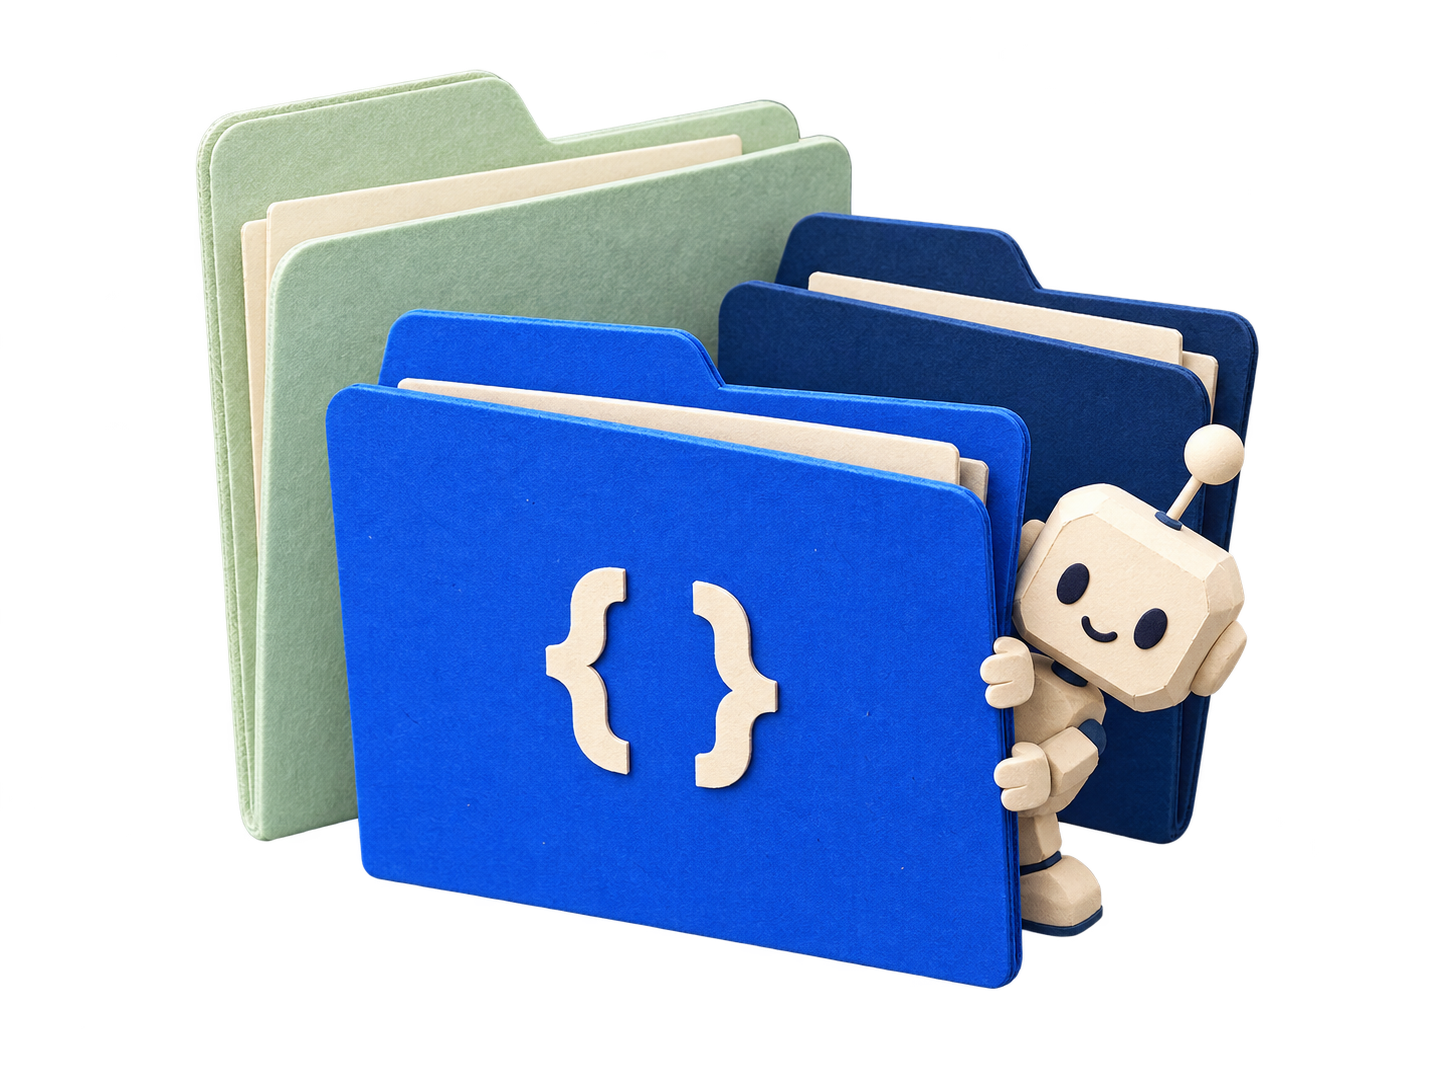
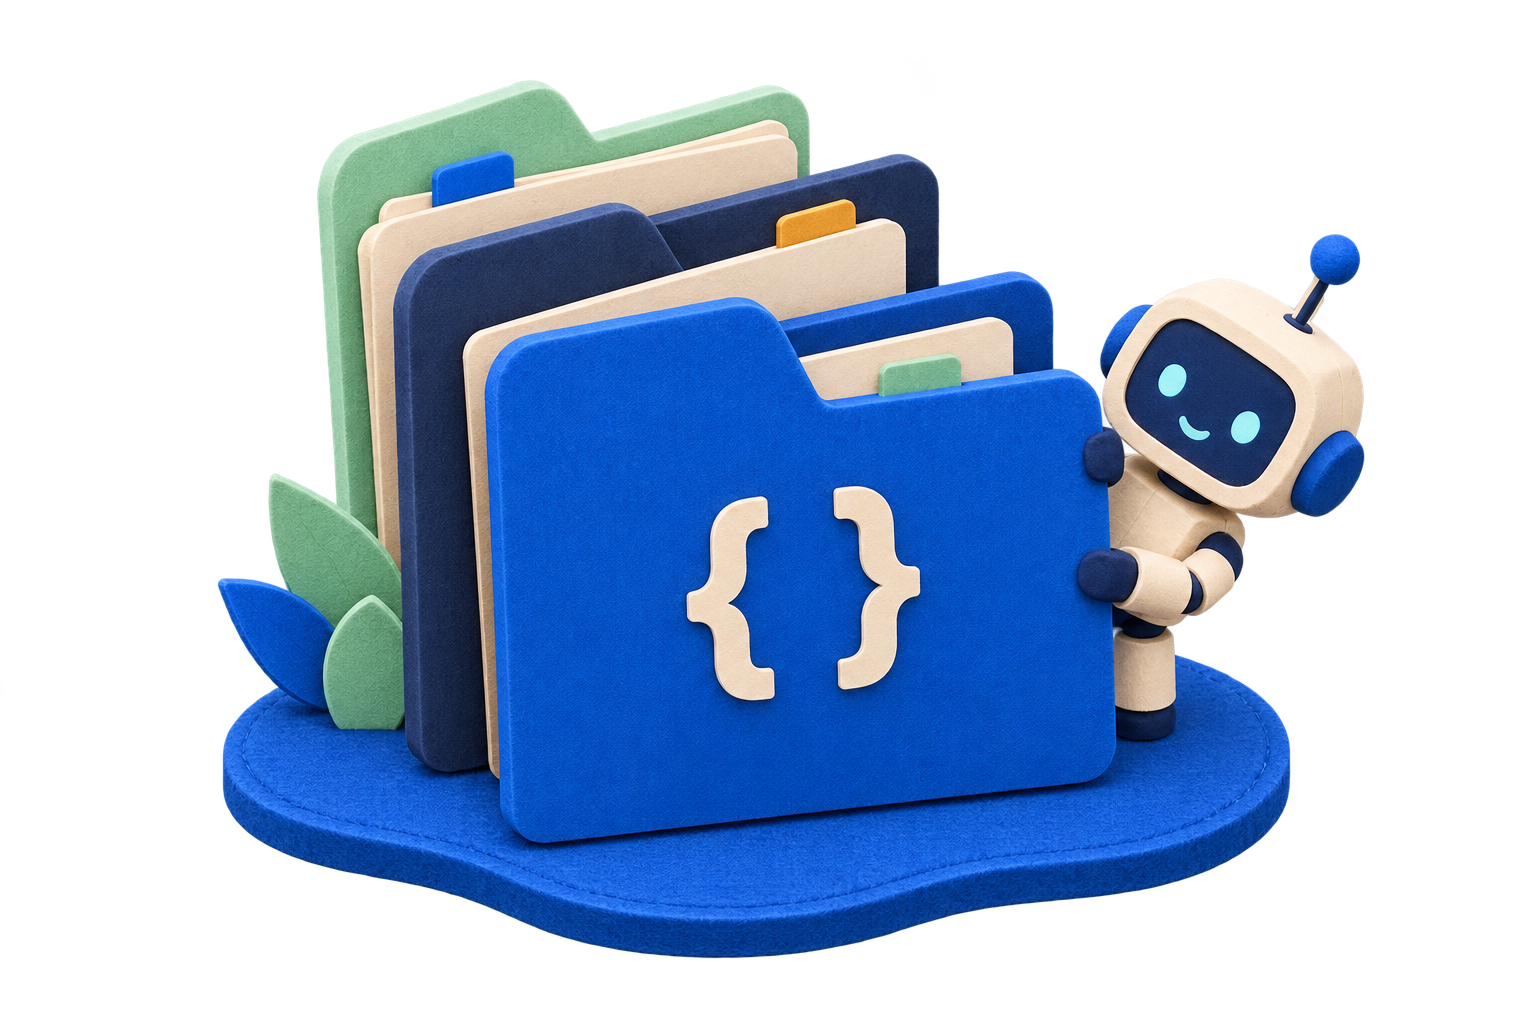
design(forgejo): align page illustrations with soda robot style

diff --git a/assets/branding/forgejo/art-consistency-review.md b/assets/branding/forgejo/art-consistency-review.md
@@ -1,0 +1,20 @@
+# Illustration consistency review — 2026-09-08
+
+Reviewed all nine Forgejo page illustrations together on a cream contact sheet. Home and dashboard served as material/robot references. Kept login, home, dashboard, organizations, pull requests and milestones: their scene complexity and poses differ deliberately but retain the cream/cobalt/mint paper-workbench family. Replaced users (angular armored anatomy), explore (different face/proportions) and issues (oversized robot/drink balance). Canonical logos/icons unchanged. Built-in image tool, new compositions using home/dashboard as reference images; retained alpha output. Previous versions remain in Git history.
+
+## users
+
+Create a brand new original Soda OS website illustration using the two supplied images ONLY as style and robot-family references. Match their cream rounded cardstock robots, navy inset face panels, simple cyan dot eyes and small smile, round cobalt ear caps, short rounded limbs and mitten hands. Tactile smooth folded paper and restrained felt, not plush fur, not angular anime armor. Consistent warm soft studio light, cream/navy/cobalt/mint with tiny amber accents. Landscape 1536x1024, whole objects visible with margins, three-quarter view, genuinely transparent PNG alpha background. No glow or backdrop, no text, lettering or logos. Compact composition readable at 300px wide. Scene: three friendly robot contributors standing together on a small curved cobalt felt mat. One waves, one holds a mint notebook, one wears simple small amber headphones and holds a pencil. All three share the same short rounded robot body construction, with subtle accessory differences only. Warm community portrait. No drink or large furniture. No heroic action poses, pointed ears or armored legs.
+
+## explore
+
+Create a brand new original Soda OS website illustration using the two supplied images ONLY as style and robot-family references. Match their cream rounded cardstock robots, navy inset face panels, simple cyan dot eyes and small smile, round cobalt ear caps, short rounded limbs and mitten hands. Tactile smooth folded paper and restrained felt, not plush fur, not angular anime armor. Consistent warm soft studio light, cream/navy/cobalt/mint with tiny amber accents. Landscape 1536x1024, whole objects visible with margins, three-quarter view, genuinely transparent PNG alpha background. No glow or backdrop, no text, lettering or logos. Compact composition readable at 300px wide. Scene: three overlapping upright file folders, front cobalt, middle navy, rear mint, representing discoverable repositories. A small friendly robot with navy face and cyan eyes peeks around the right folder holding its edge. A simple cream pair of curly braces on the front folder is allowed as the only symbol. Folders dominate; robot is small. Tiny cobalt felt base underneath gives the same tactile grounding as the reference. No laptop, drinks or checklist.
+
+## issues
+
+Create a brand new original Soda OS website illustration using the two supplied images ONLY as style and robot-family references. Match their cream rounded cardstock robots, navy inset face panels, simple cyan dot eyes and small smile, round cobalt ear caps, short rounded limbs and mitten hands. Tactile smooth folded paper and restrained felt, not plush fur, not angular anime armor. Consistent warm soft studio light, cream/navy/cobalt/mint with tiny amber accents. Landscape 1536x1024, whole objects visible with margins, three-quarter view, genuinely transparent PNG alpha background. No glow or backdrop, no text, lettering or logos. Compact composition readable at 300px wide. Scene: one small friendly robot at a compact workbench, checking a mint upright checklist with a pencil. Checklist contains three simple check marks and short abstract lines, no words. Include a small notebook and a tiny amber soda glass, no taller than one third of robot torso, on a curved cobalt felt mat. Robot and checklist balanced equal prominence, no extreme close-up, no giant photorealistic drink. Restrained tactile cardstock objects matching references.
+
+
+## Issues transparency correction
+
+The first Issues output contained a painted checkerboard and was rejected. A second built-in image edit preserved the composition and replaced that background with genuine alpha. All three installed replacements were inspected together with the retained illustrations on cream and verified as RGBA PNGs.

diff --git a/assets/branding/forgejo/directory-art-prompts.md b/assets/branding/forgejo/directory-art-prompts.md
@@ -9,3 +9,5 @@ Use case: stylized-concept. Create a brand-new standalone Soda OS Users director
 ## Organizations: orgs-papercraft.png
 
 Use case: stylized-concept. Create a brand-new standalone Soda OS Organizations directory illustration, not a webpage. A welcoming miniature shared workshop made from folded cardstock: three open architectural workspace bays joined on one small curved cobalt foundation, with a cream central arch and mint partition walls. Two tiny cream paper robots with dark navy face panels collaborate from separate bays, one passes a small blue project folder to the other across the shared central table. This represents a team with a shared home and shared projects, not a hierarchy or office skyscraper. Elegant simple coherent silhouette rather than a busy dollhouse. Exquisite handmade paper miniature, visible folded edges and layered card, fine subtle paper fibers, matte materials, soft studio lighting. No glossy plastic or metallic surfaces. Palette warm cream #fffdf8, vivid cobalt #155eef, deep navy #1c2740, pale mint, tiny amber accent. Three-quarter perspective, entire asset visible, centered compact landscape 1536x1024 composition, legible when displayed 300px wide. Genuinely transparent alpha background, no scenery/background rectangle, no lettering, no logos, no watermark. Generate original artwork from scratch.
+
+The Users replacement is documented in [the consistency review](art-consistency-review.md); the prompt above records the original generation.

diff --git a/assets/branding/forgejo/issues-art-prompt.md b/assets/branding/forgejo/issues-art-prompt.md
@@ -6,3 +6,5 @@
 Prompt:
 
 > Generate a brand new standalone transparent PNG illustration for Soda OS Issues page. Artwork only, no webpage. A small friendly handmade papercraft robot with cream rounded cardstock head and body, navy face panel, two cyan eyes and simple smile, blue ear caps. Robot holding a yellow pencil beside a mint green upright checklist card bearing three simple check marks and short abstract lines (no words). Amber soda glass at right. Compact navy/cobalt felt oval base. Warm studio lighting, tactile folded paper and felt fibers, precise charming miniature construction, restrained cream mint cobalt amber palette. Three-quarter front view, all objects entirely visible, no background rectangle, genuinely transparent alpha, no glow. Landscape 1536x1024 composition, small margins. Similar cozy workbench aesthetic to Soda OS dashboard. No text, logos, watermark, extra robots, UI, scenery or decorative floating symbols.
+
+The Issues replacement is documented in [the consistency review](art-consistency-review.md); the prompt above records the original generation.

diff --git a/docs/implementation-status.md b/docs/implementation-status.md
@@ -75,6 +75,17 @@ verified the open menu, ArrowDown expansion and personal-context navigation;
 organization switching was not newly exercised. CSS-only change and local
 template reload; no deployment.
 
+## Forgejo illustration consistency
+
+Reviewed all nine page illustrations together and regenerated the repository
+explorer, Users and Issues assets using Home/Dashboard as style references.
+The replacements align robot proportions, paper materials and scene balance;
+canonical logos remain unchanged. PNG alpha and the cream contact sheet were
+inspected, then all three pages were visually checked in local Chrome dark mode
+after template reload. Asset query versions refresh cached images. No appliance
+deployment or backend changes. Prompts and decisions are recorded in
+`assets/branding/forgejo/art-consistency-review.md`.
+
 ## Local repository explorer preview
 
 The stock Forgejo 15.0.7 local Docker preview now uses a Soda repository-explorer
